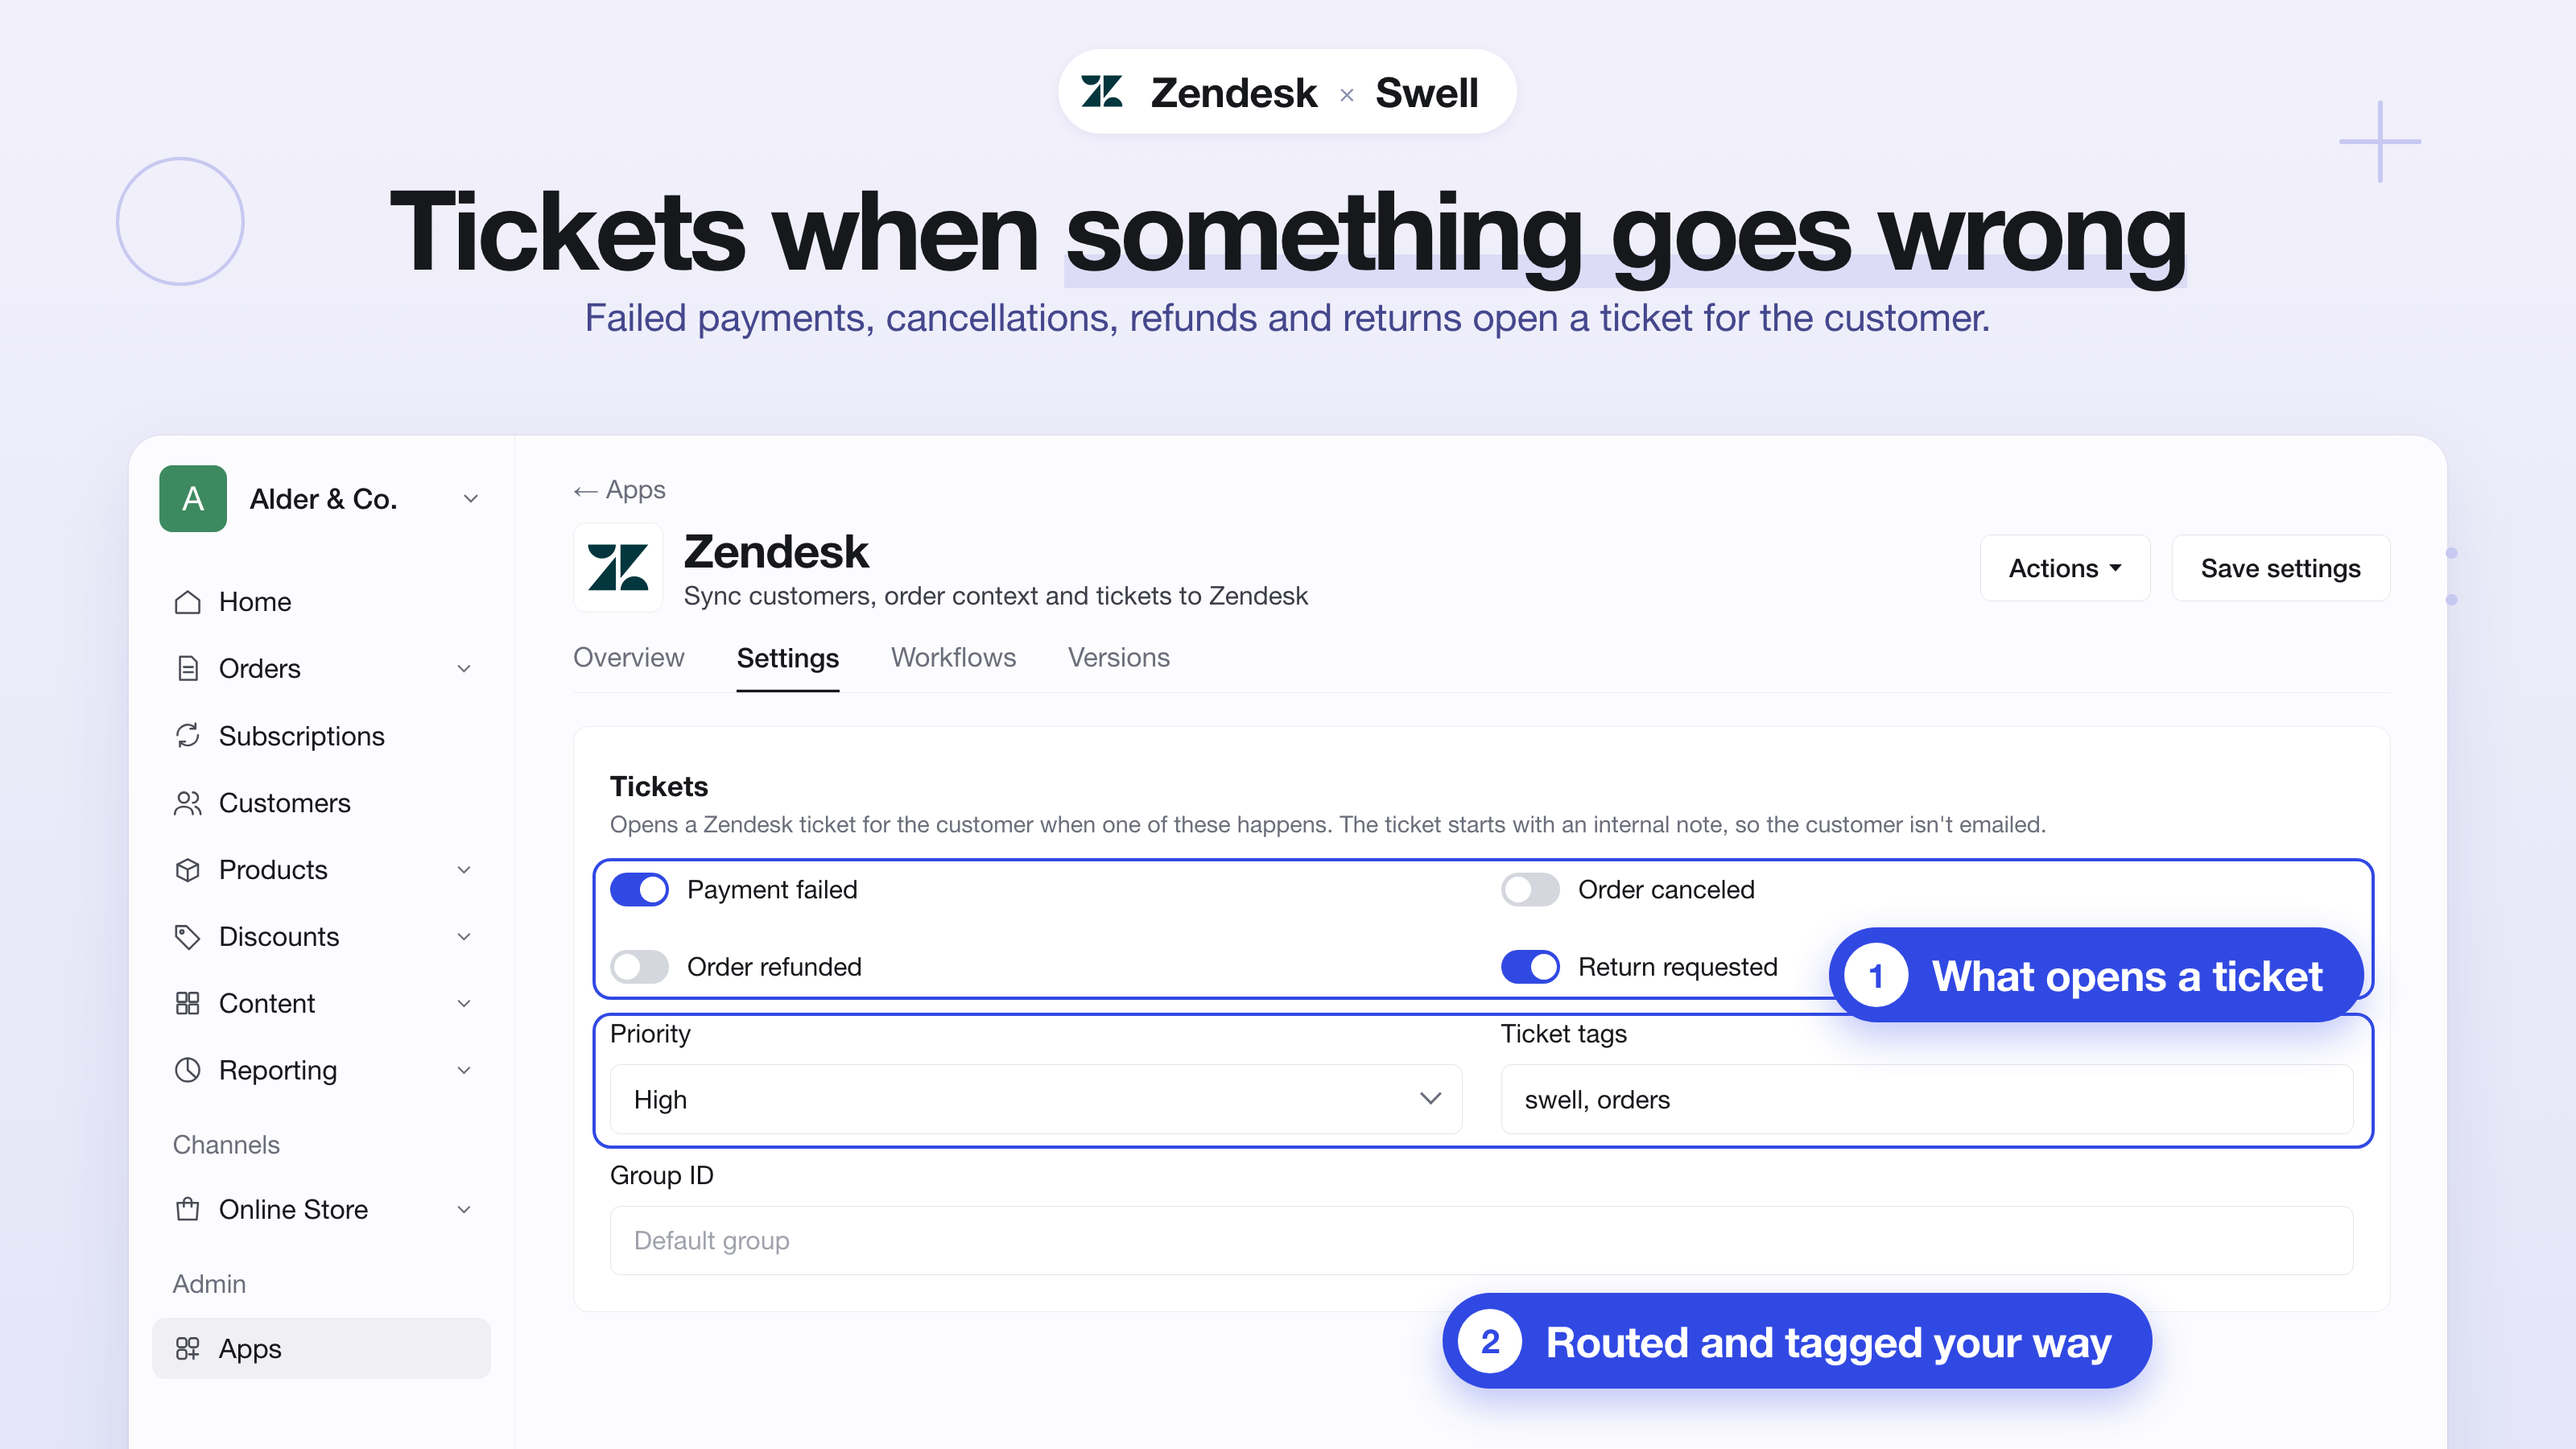
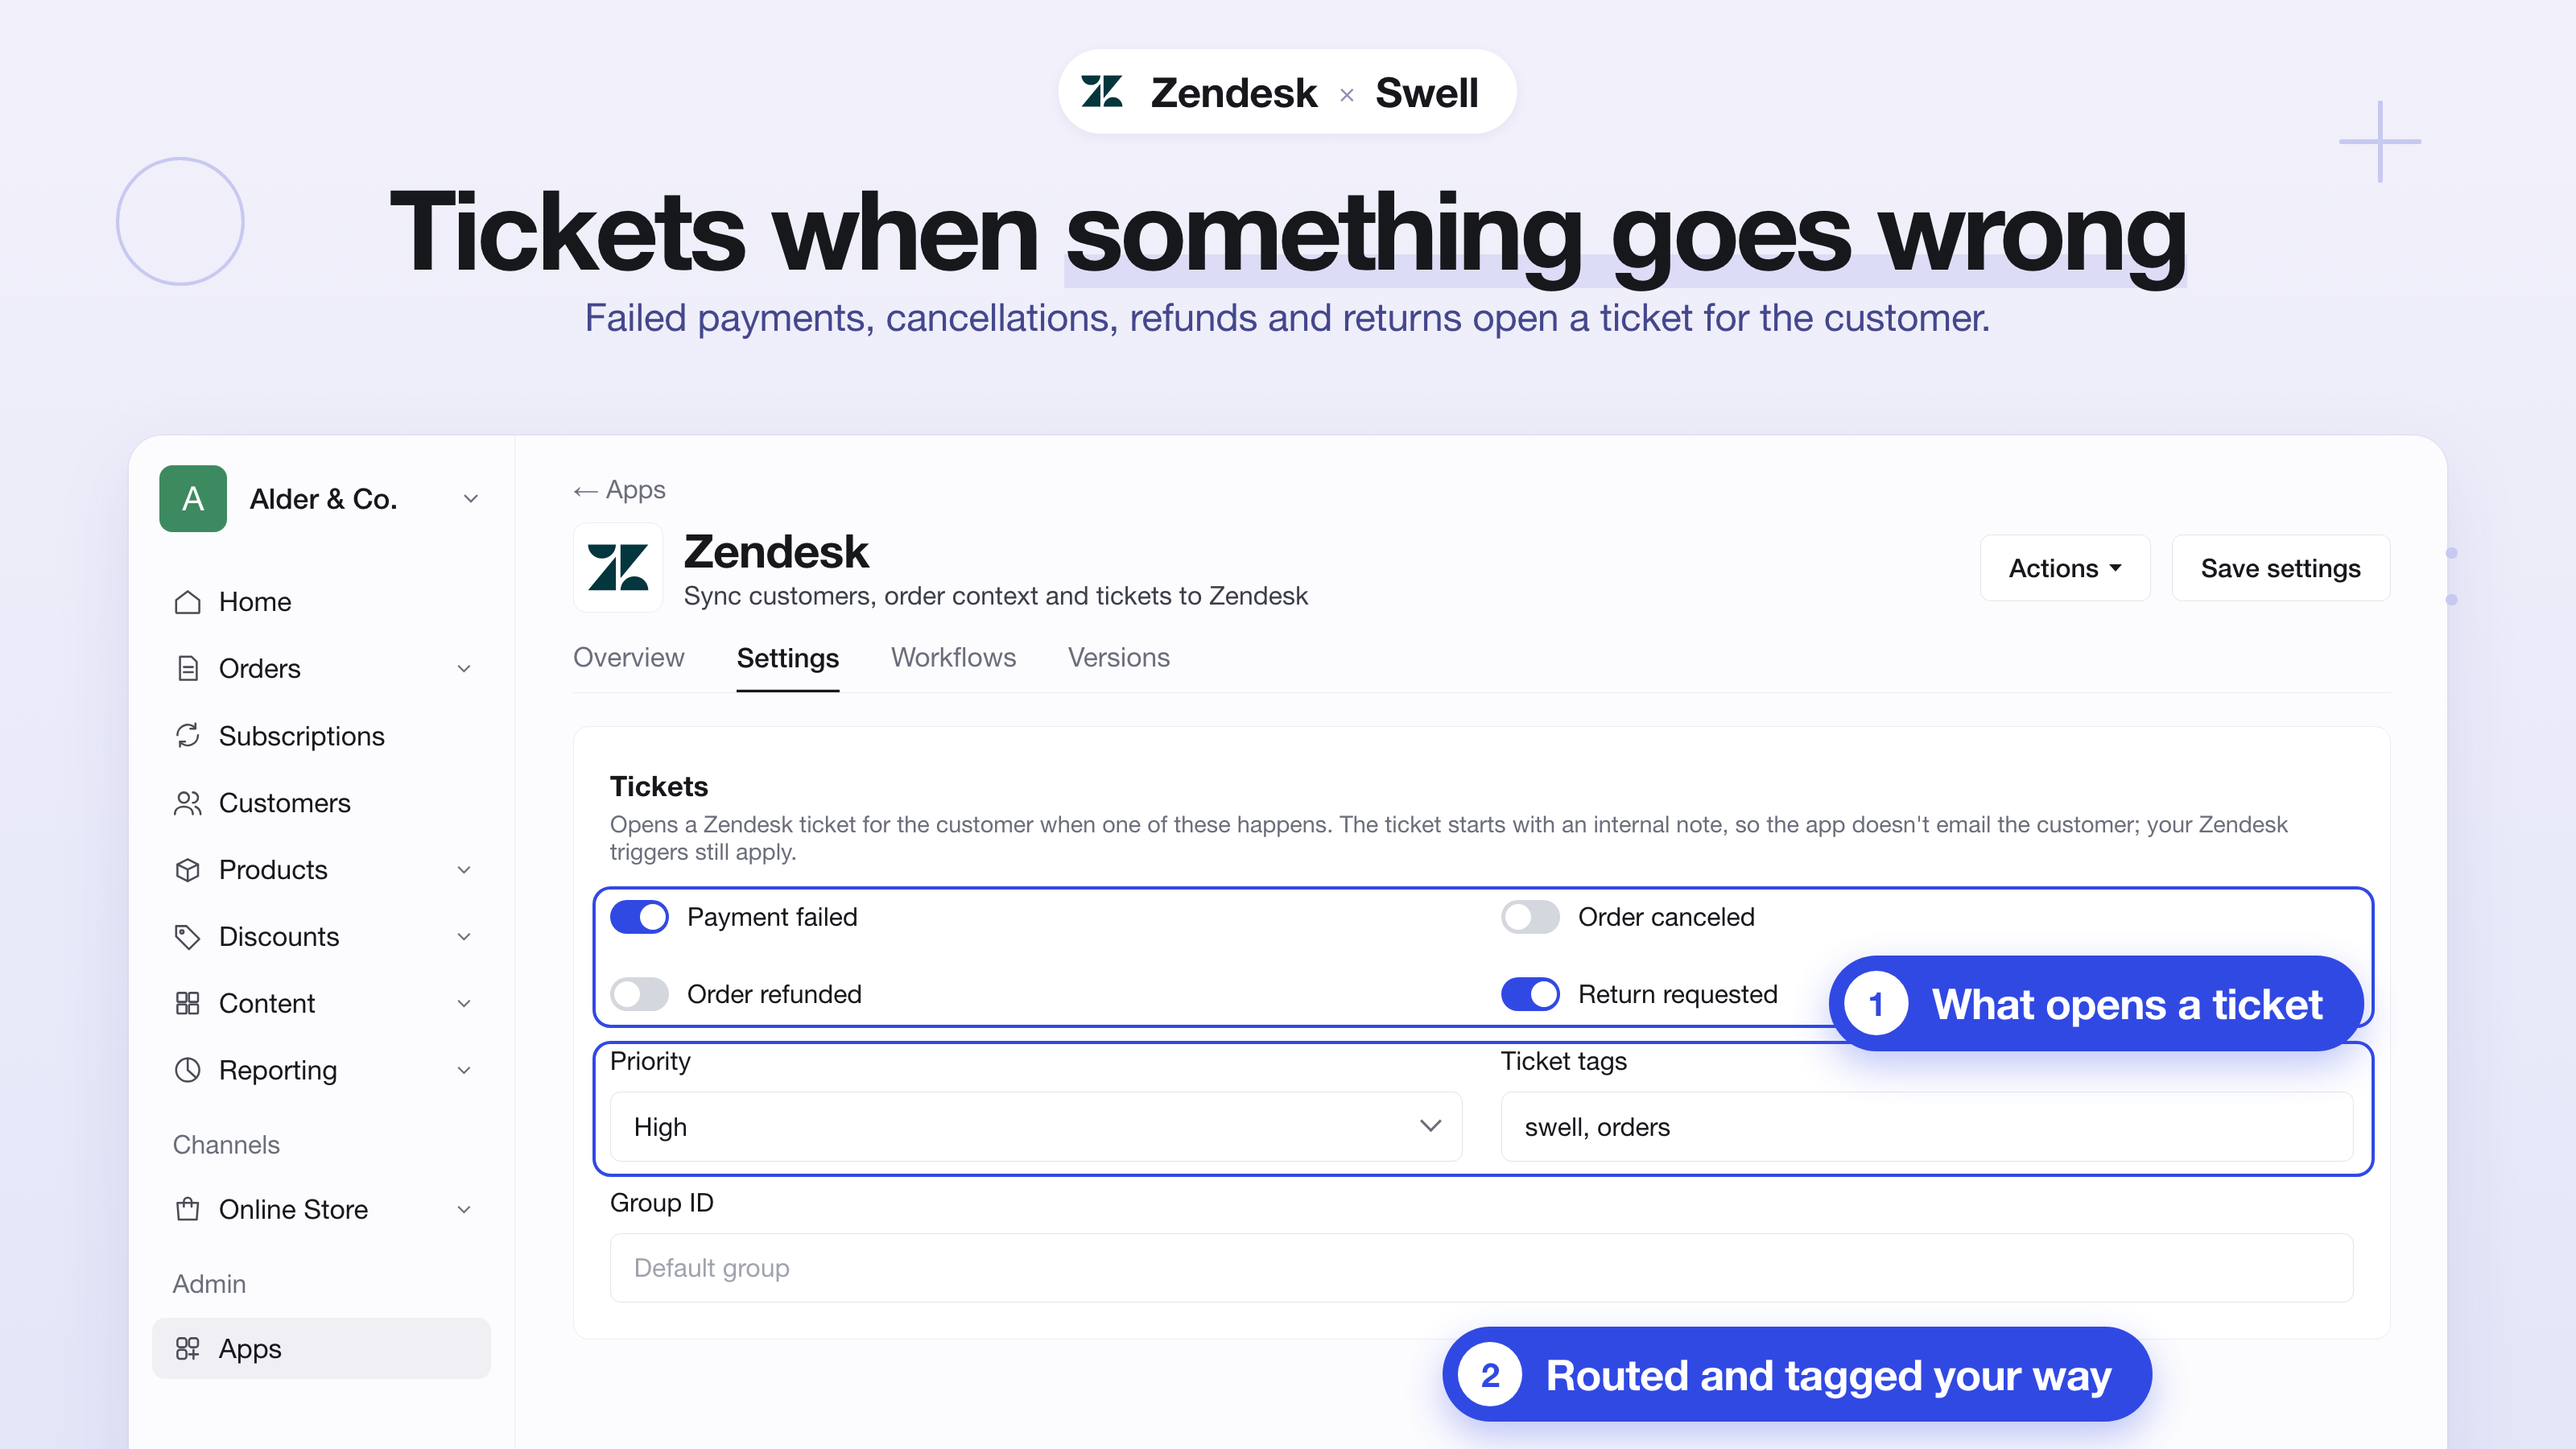
updates

Changed region(s): [[0.2188, 0.56, 0.9375, 0.9022], [0.5625, 0.8711, 0.8438, 0.9956]]

diff --git a/test/unit/functions.test.ts b/test/unit/functions.test.ts
@@ -191,6 +191,15 @@ describe("order-tickets", () => {
     expect(errorSpy).toHaveBeenCalledWith("Zendesk: order gone not found");
   });
 
+  it("skips orders without a customer email before calling Zendesk", async () => {
+    const fetchMock = mockZendesk();
+    await orderTickets(
+      request({ id: "ord_1", $event: { type: "order.payment_failed" } }, { order: makeOrder({ account: { id: "a" } }) }).req,
+    );
+    await returnTickets(request({ id: "ret_1" }, { order: makeOrder({ account: null }) }).req);
+    expect(fetchMock).not.toHaveBeenCalled();
+  });
+
   it("skips orders that already have the ticket", async () => {
     const fetchMock = mockZendesk();
     const order = makeOrder({ $app: { zendesk: { zendesk_ticket_payment_failed: "https://acme.zendesk.com/agent/tickets/1" } } });

diff --git a/functions/order-tickets.ts b/functions/order-tickets.ts
@@ -33,6 +33,10 @@ export default async function (req: SwellRequest) {
     console.log(`Zendesk: ${event.kind} ticket for order ${data.id} already created`);
     return;
   }
+  if (!order.account?.email) {
+    console.log(`Zendesk: ${event.kind} ticket for order ${data.id} skipped, no customer email`);
+    return;
+  }
 
   try {
     const ctx = await createContext(settings, req.store?.admin_url);

diff --git a/functions/return-tickets.ts b/functions/return-tickets.ts
@@ -35,6 +35,10 @@ export default async function (req: SwellRequest) {
     console.log(`Zendesk: ticket for return ${data.id} already created`);
     return;
   }
+  if (!order.account?.email) {
+    console.log(`Zendesk: ticket for return ${data.id} skipped, no customer email`);
+    return;
+  }
 
   try {
     const ctx = await createContext(settings, req.store?.admin_url);

diff --git a/README.md b/README.md
@@ -69,14 +69,15 @@ With **Show orders on Zendesk users** on, synced users also get these custom use
 - The ticket's requester is the order's customer (name and email; Zendesk finds or creates the user).
 - The first comment is an **internal note** (`public: false`) with the customer, order number, total and date (no status,
   so a retry sends the same body), the refund total for refunds,
-  the return number, reason and notes for returns, the items (only the returned ones for returns) and a link to the order
+  the return number, reason and notes for returns, the items (for returns, only the returned ones when the return lists
+  their order items) and a link to the order
   in the Swell dashboard. The customer isn't emailed by the app; Zendesk triggers that react to new tickets still apply.
 - **Priority**, **Ticket tags** plus a tag for the event (`swell_payment_failed`, `swell_canceled`, `swell_refunded`,
   `swell_return`) and **Group ID** are set from the settings. `external_id` is `swell-<event>-<order or return id>`.
 - The ticket link is saved on the order (`zendesk_ticket_payment_failed`, `zendesk_ticket_canceled`,
   `zendesk_ticket_refunded`) or the return (`zendesk_ticket`) and shown on a **Zendesk** tab. A record that already has the
   link gets no second ticket, and the check runs before any Zendesk call.
-- Orders without a customer email are skipped.
+- Orders without a customer email are skipped, before any Zendesk call.
 
 ### Import existing customers
 
@@ -93,15 +94,16 @@ or updates a Zendesk user for every Swell account with an email, with order cont
   each user as created, updated or failed from the job's results. Users of a job that is still running after that are
   counted as **still processing**; users a finished job doesn't report on are counted as failed. Errors for single users are
   logged.
-- Page and job-check steps are retried up to 5 times with exponential backoff (starting at 30 s) on network errors, HTTP 429
-  and 5xx. Resending a page only repeats the same create-or-update. Other Zendesk errors (e.g. 401) aren't retried:
-  the run fails right away with the same explanation as Test connection and the refused call, e.g.
-  `POST /api/v2/users/create_or_update_many`.
+- Page and job-check steps are retried up to 5 times with exponential backoff (starting at 30 s) on Zendesk network errors,
+  HTTP 429 and 5xx, and on Swell API errors. Resending a page only repeats the same create-or-update. Other Zendesk errors
+  (e.g. 401) aren't retried: the run fails right away with the same explanation as Test connection, which names the refused
+  call for 403 and unexpected errors, e.g. `Zendesk refused POST /api/v2/users/create_or_update (403 Forbidden)`.
 - The run returns and logs the totals: created, updated, skipped (no email), failed and still processing.
 - With **Enabled** or **Sync customer accounts** off, or a connection setting missing, the run doesn't start and fails with
   the reason. Settings are read again at the start of each page: turning the app off during an import lets the current page
   finish, then the run fails with the totals so far.
-- Only flags are stored in the run's step output, never the client secret or an access token.
+- Step output, which Swell keeps with the run, holds only flags, counts, record and job IDs and messages, never the client
+  secret or an access token.
 - The action is hidden while **Sync customer accounts** is off; **Create user fields** is hidden while order context is off.
 
 ### Test connection
@@ -121,7 +123,8 @@ off and sends no customer data.
   network error or 5xx, Zendesk returns the ticket it already created instead of a new one, as long as the request body is
   the same; the note leaves out values that change quickly, such as the order status. Zendesk keeps idempotency keys
   for 2 hours, and the saved ticket link on the order or return prevents duplicates after that.
-- If saving the ticket link fails, the error is logged and the ticket isn't created again by that retry.
+- If saving the ticket link fails, the error is logged and the function still succeeds, so Swell doesn't retry it and no
+  second ticket is requested.
 - Other errors (invalid data, rejected credentials) are logged with `console.error`, with the refused call, and not retried.
 
 ### Turning the app off
@@ -215,8 +218,7 @@ Data stored in Swell (`models/`, shown on a **Zendesk** tab by `content/`):
 ## Limits and known behavior
 
 - **Confidential OAuth client required.** Public clients can't use the client credentials grant.
-- **Admin needed for user fields.** Creating user fields needs a client owned by an admin; syncing and tickets work with
-  any user that can manage end users and create tickets.
+- **Admin needed for user fields.** Creating user fields needs a client owned by a Zendesk admin.
 - **Users are matched by account ID or email.** Zendesk's create-or-update finds an existing user by `external_id` (the
   Swell account ID) or email, so customers who already exist in Zendesk are updated, not duplicated.
 - **Bulk import can be refused.** When Zendesk answers 403, 400 or 422 to `create_or_update_many`, the import falls back to
